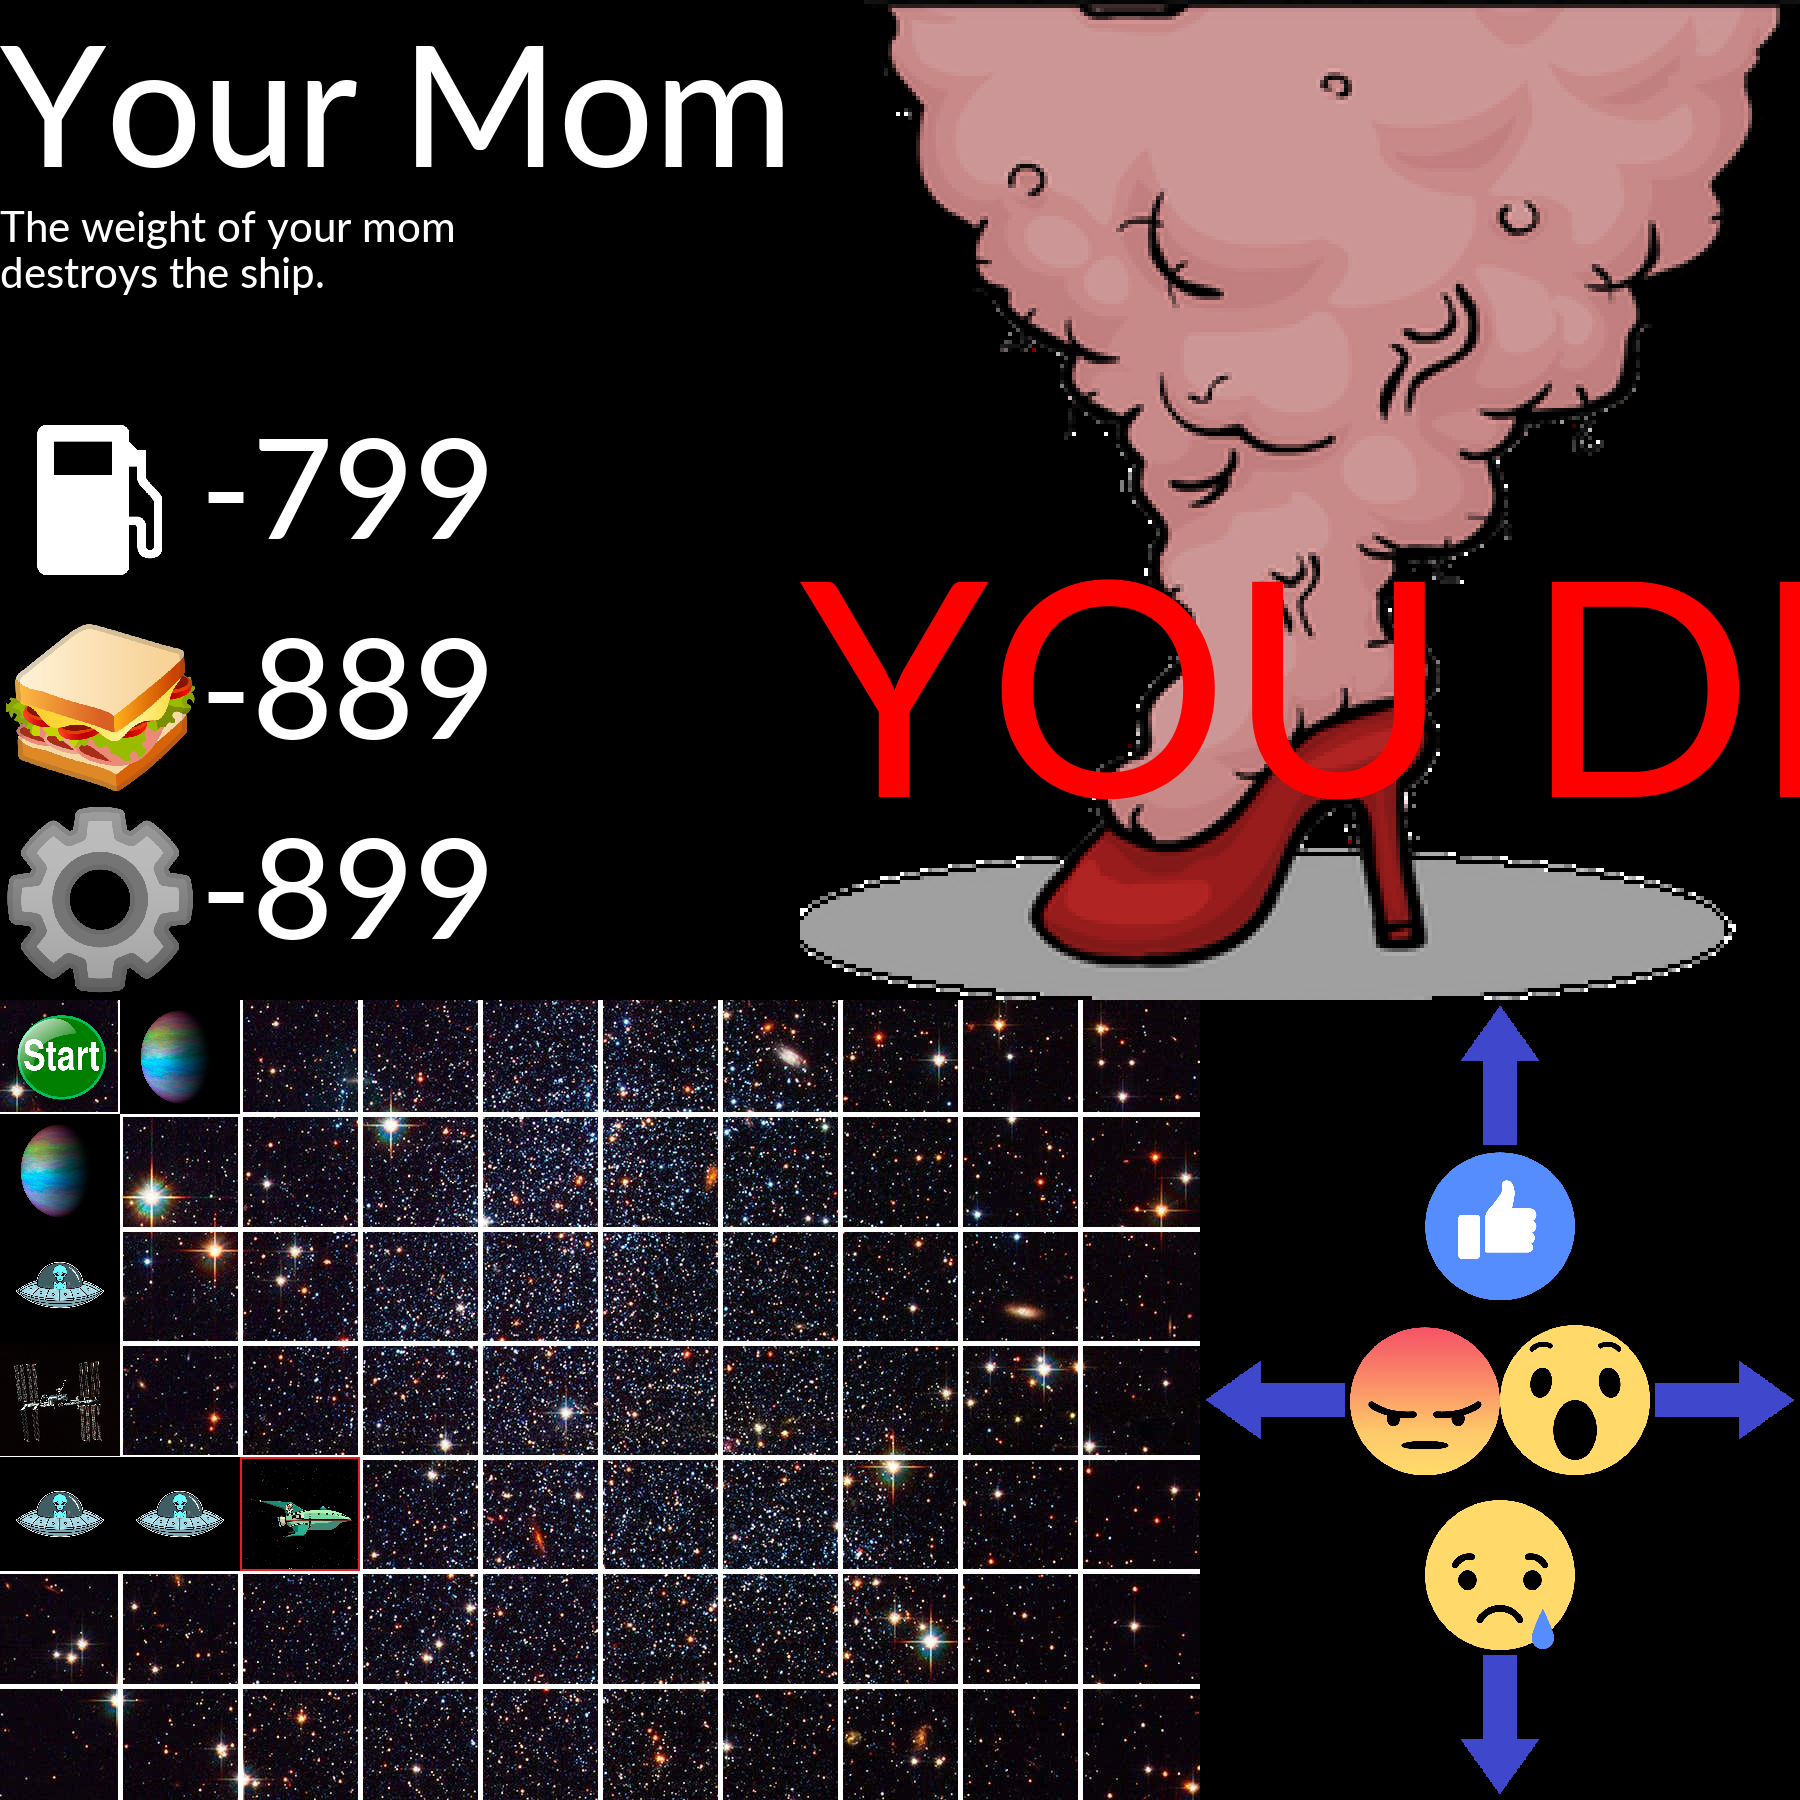
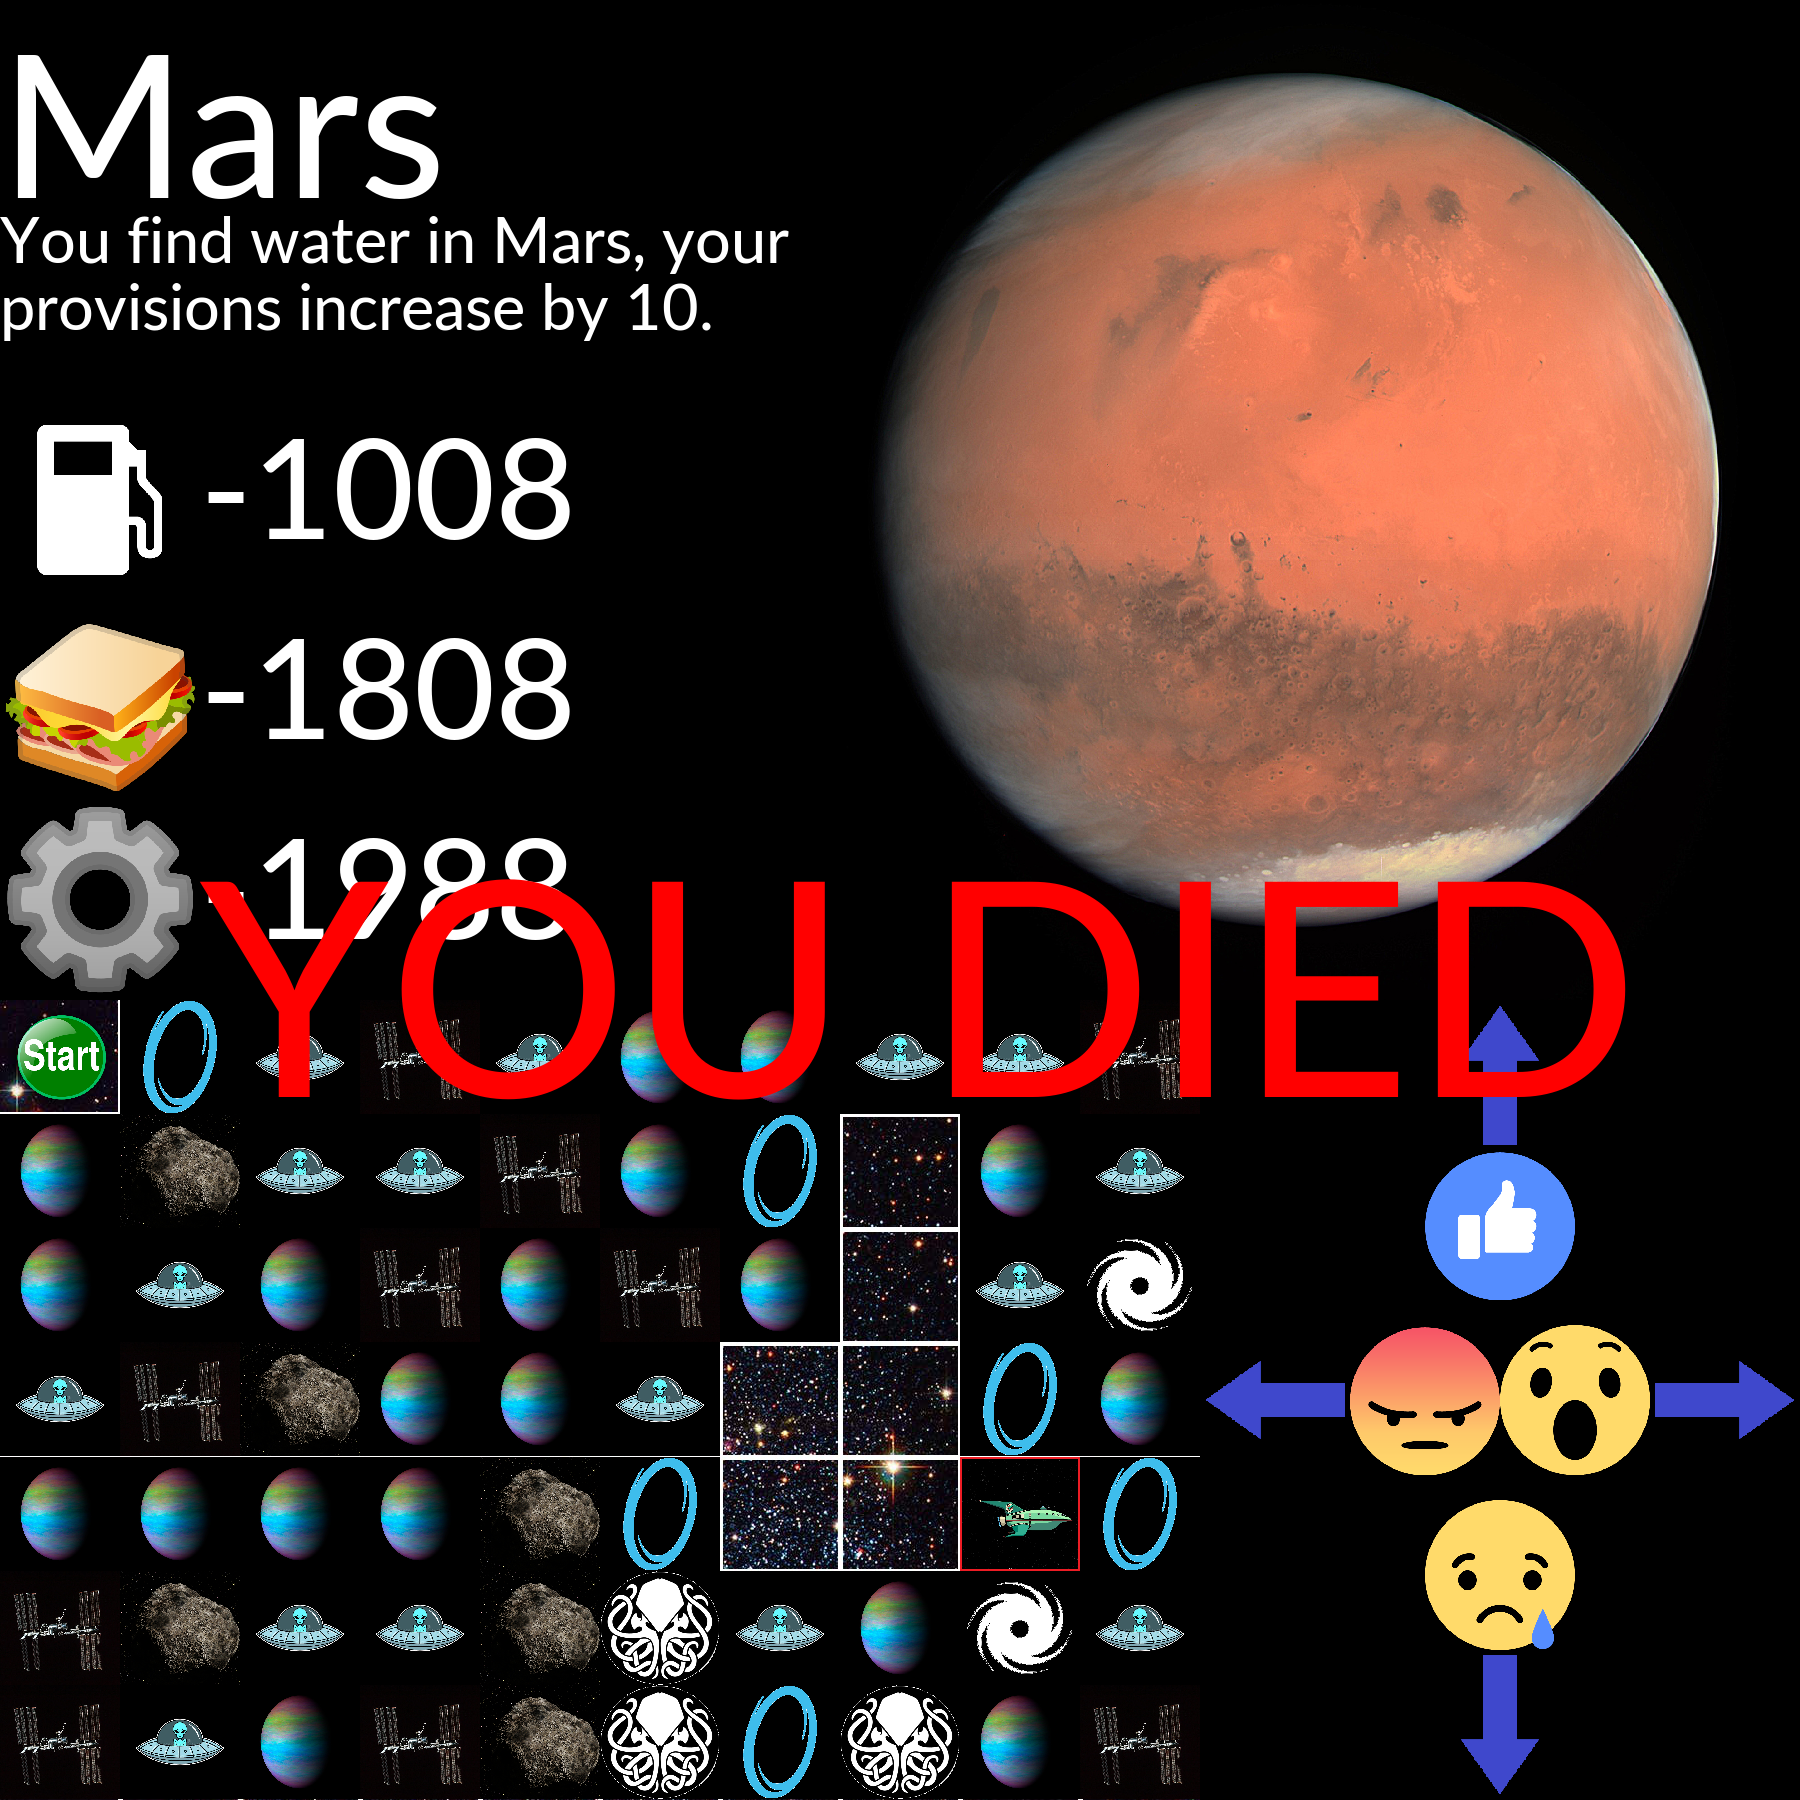
Arregle texto, links rotos y BH logic

diff --git a/planets.py b/planets.py
@@ -61,7 +61,7 @@ class Goal(Event):
 		self.bad_chance = 0
 		self.good_text = "You've reached your destination: {}.".format(self.name)
 		self.urls = {
-			"Earth" : "https://nomoreplanet.com/wp-content/uploads/2020/02/Planet-Earth.jpg"
+			"Earth" : "https://media.npr.org/assets/img/2013/03/06/bluemarble3k-smaller-nasa_custom-644f0b7082d6d0f6814a9e82908569c07ea55ccb-s800-c85.jpg"
 		}
 		if name:
 			self.set_url()
@@ -156,12 +156,12 @@ class Planet(Event):
 			"Mars Colony":{
 				"good" : "You restore Mars' atmosphere and make up with a hot chick. You get 10 provisions",
 				"bad"  : "You may or may not be a secret double/triple agent whose memory was wiped intentionally or unintentionally once or twice. In the confusion you lose 10 provisions",
-				"url"  : "https://cms-assets.theasc.com/Total-Recall-Walk-copy.jpg?mtime=20200303055022"
+				"url"  : "https://3.bp.blogspot.com/-ulLqOBJWHWI/VgGE5XVBP2I/AAAAAAAABOk/HKJiC9PewJs/s2048/01%2BAstronauts%2Bon%2BMars%2BTotal%2BRecall%2B1990%2Bmovie%2Bimage.jpg"
 				},
 			"Namek":{
 				"good" : "You achieve SUPERSAYIAN. You get 10 provisions",
 				"bad"  : "You arrive just as a midget and a monkey destroy the planet. You lose 10 provisions",
-				"url"  : "https://cms-assets.theasc.com/Total-Recall-Walk-copy.jpg?mtime=20200303055022"
+				"url"  : "https://vignette.wikia.nocookie.net/dragonball/images/7/71/Namek_U7.png/revision/latest/top-crop/width/360/height/450?cb=20171203031332&path-prefix=es"
 				},
 			"Omicron persei 8":{
 				"good" : "You get some delicious Popplers. You get 10 provisions",
@@ -207,7 +207,7 @@ class Portal(Event):
 		self.urls = {
 			"Wormhole" : "https://qph.fs.quoracdn.net/main-qimg-79f468932c9222c1648c31fbe6112fbe",
 			"Mass Relay" : "https://i.ytimg.com/vi/BDq4a6PqAvM/maxresdefault.jpg",
-			"Infinite improbability Drive" : "https://miro.medium.com/max/560/1*URj2RSTjYvyegLZ51tq8ZA.jpeg",
+			"Infinite improbability Drive" : "https://i.redd.it/g8ofhhot01qz.jpg",
 			"Warp Station" : "https://vignette.wikia.nocookie.net/pulsar-game/images/2/24/Long_range_warp_station.png/revision/latest/scale-to-width-down/340?cb=20190626124313",
 			"Portal" : "https://encrypted-tbn0.gstatic.com/images?q=tbn%3AANd9GcT-HfXb1DmwshWvAErqfe4mxV7GAZtPQ0wpZw&usqp=CAU",
 			"Bifrost" : "https://i.ytimg.com/vi/hzqWcXA_Xrk/maxresdefault.jpg",
@@ -239,7 +239,7 @@ class Ship(Event):
 			"Millenium Falcon":{
 				"good" : "You entered a dogfight with it. You managed to steal 20 fuel from Disney",
 				"bad"  : "You entered a dogfight with it. You received damage by 10 hull",
-				"url"  : "https://toppng.com/uploads/preview/star-wars-millennium-falcon-11562863034ii1e8arwof.png"
+				"url"  : "https://hips.hearstapps.com/hmg-prod.s3.amazonaws.com/images/veh-ia-1751-1576604159.jpg?crop=0.583xw:0.658xh;0.207xw,0.220xh&resize=640:*"
 				},
 			"Swordfish":{
 				"good" : "You encounter bounty hunters. They gift you 20 fuel",
@@ -486,6 +486,7 @@ class BlackHole(Event):
 
 	def bad_action(self,spaceship):
 		spaceship.modify_fuel(-10)
+		return spaceship
 
 #Planets = ["Mars","Solaris","Tatooine","Trantor","Pandora","Magrathea","Gallifrey",
 #	"Roboworld","Hoth","Terminus"]

diff --git a/Space.py b/Space.py
@@ -232,24 +232,29 @@ def update_image(spaceship,event):
 def gen_goal_image():
 	image = Image.open("Post_image.png")
 	draw = ImageDraw.Draw(image)
-	draw.text((800,500),"YOU WON",font=get_font(300),fill="green")
+	draw.text((200,800),"YOU WON",font=get_font(300),fill="green")
 	image.save("Victory_image.png")
 	return "Death_image.png"
 
 def gen_gameover_image():
 	image = Image.open("Post_image.png")
 	draw = ImageDraw.Draw(image)
-	draw.text((800,500),"YOU DIED",font=get_font(300),fill="red")
+	draw.text((200,800),"YOU DIED",font=get_font(300),fill="red")
 	image.save("Death_image.png")
 	return "Death_image.png"
 
 def add_text(img,event):
 	draw = ImageDraw.Draw(img)
 	draw.text((0,0),event.name,font=get_font(get_fontsize(event.name,draw)))
-	if len(event.text)<=90:
-		draw.text((0,200),textwrap.fill(event.text,30),font=get_font(get_fontsize(event.text,draw)))
+	font1 = get_fontsize(event.text,draw)
+	font2 = get_fontsize(textwrap.fill(event.text,len(event.text)//2+1),draw)
+	font3 = get_fontsize(textwrap.fill(event.text,len(event.text)//3+2),draw)
+	if font1>=font2 and font1>=font3:
+		draw.text((0,200),event.text,font=get_font(font1))
+	elif font2>=font3:
+		draw.text((0,200),textwrap.fill(event.text,len(event.text)//2+1),font=get_font(font2))
 	else:
-		draw.text((0,200),textwrap.fill(event.text,len(event.text)//3),font=get_font(get_fontsize(event.text,draw)))
+		draw.text((0,200),textwrap.fill(event.text,len(event.text)//3+2),font=get_font(font3))
 	return img
 
 def add_icon(image,icon,x,y):
